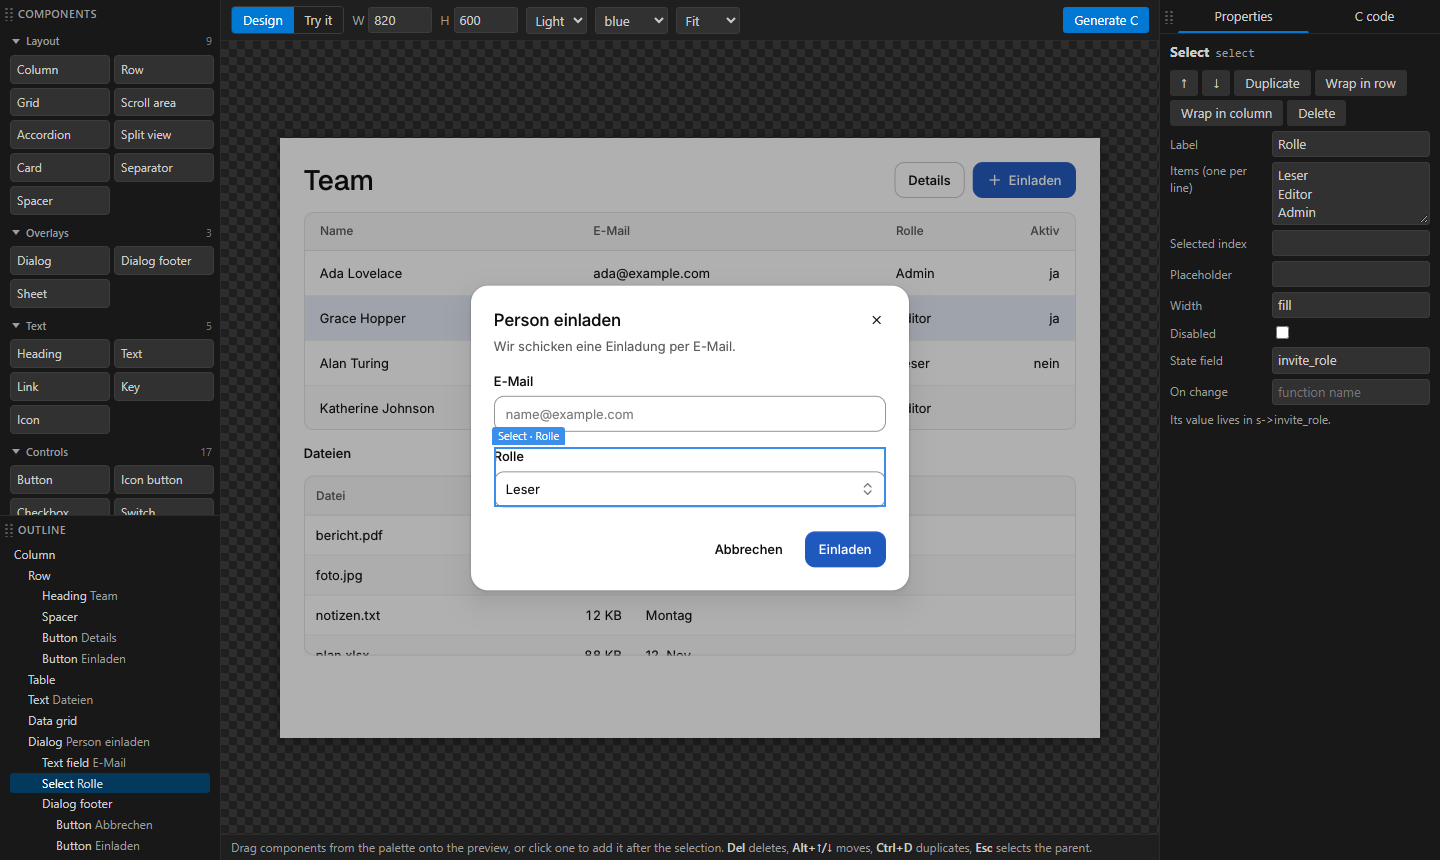
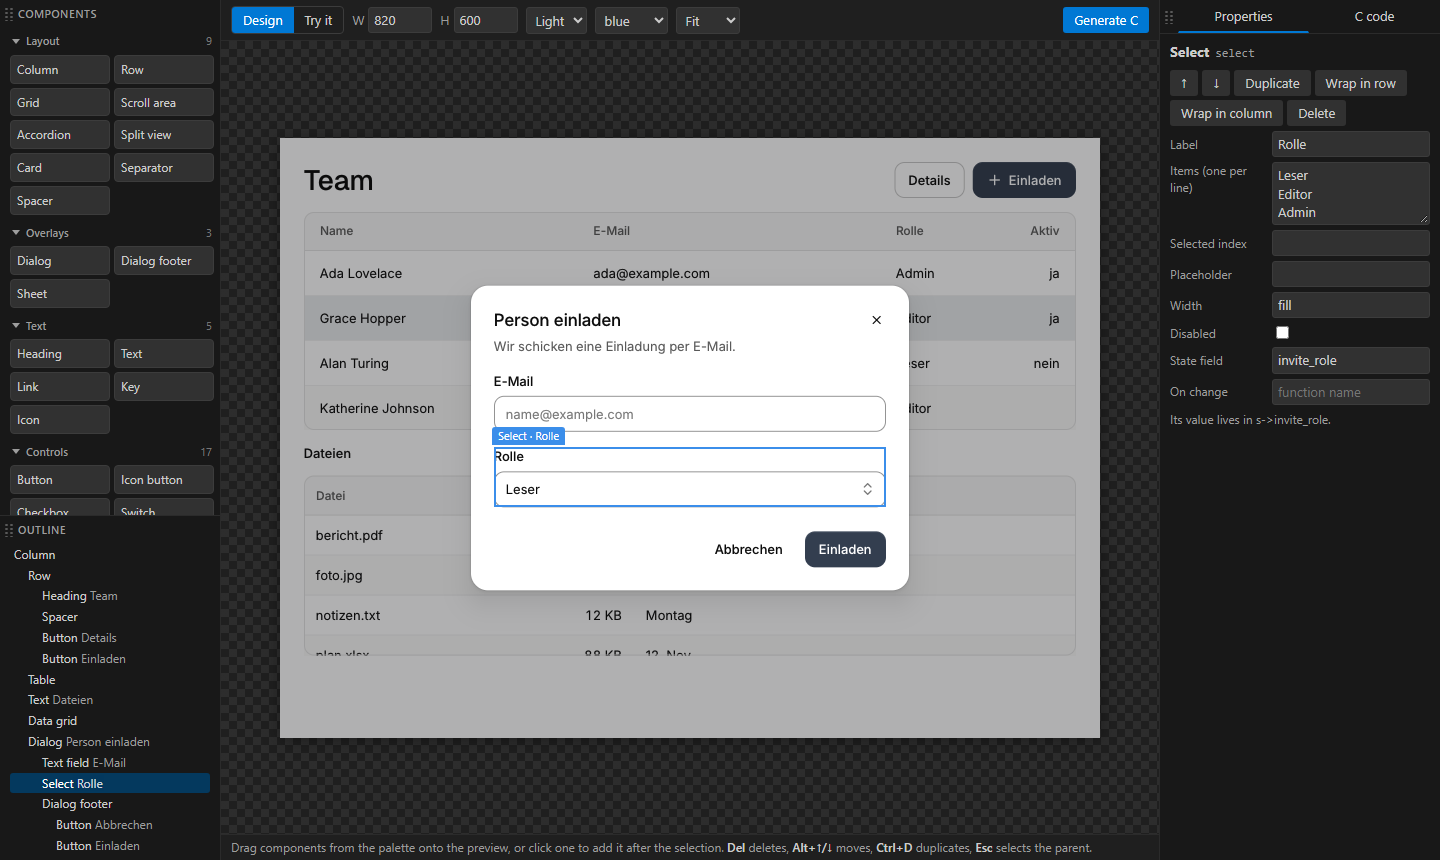
VS Code designer: new screenshots, and one of moved panels
The three screenshots are taken again from the current webview, and a
fourth shows the components on their own and the outline above the
properties on the right. test/serve.js takes ?prefs= for such a layout.

Changed region(s): [[0.6562, 0.1814, 0.75, 0.2419], [0.5625, 0.6047, 0.625, 0.6651]]

diff --git a/editors/vscode/test/serve.js b/editors/vscode/test/serve.js
@@ -1,7 +1,8 @@
 // The designer webview in a plain browser, for working on it without VS Code:
 //   node test/serve.js [samples/login.cui.json]   then open http://localhost:8790/
 //   (or http://localhost:8790/?design=samples/settings.cui.json for another design,
-//   &select=n12 to select a node, &tab=code to show the generated code)
+//   &select=n12 to select a node, &tab=code to show the generated code,
+//   &prefs={"layout":...,"folded":[...]} for a panel layout)
 // A stand-in for the VS Code API sends the design in and keeps the edits in
 // window.cuiDevEdits (the latest text is also printed to the console).
 'use strict';
@@ -13,8 +14,9 @@ const TYPES = { '.js': 'text/javascript', '.mjs': 'text/javascript', '.css': 'te
 
 const bootstrap = `<script>
 window.cuiDevEdits = [];
-// the extension's global state for the panel layout: this browser's localStorage
-try { window.cuiPrefs = JSON.parse(localStorage.getItem('cuiDesignerPrefs')); } catch (e) { window.cuiPrefs = null; }
+// the extension's global state for the panel layout: this browser's localStorage,
+// or ?prefs={...} for a screenshot with another layout
+try { window.cuiPrefs = JSON.parse(new URLSearchParams(location.search).get('prefs') || localStorage.getItem('cuiDesignerPrefs')); } catch (e) { window.cuiPrefs = null; }
 window.cuiDevHost = {
   postMessage(m) {
     const q = new URLSearchParams(location.search), design = q.get('design') || '${design}';
